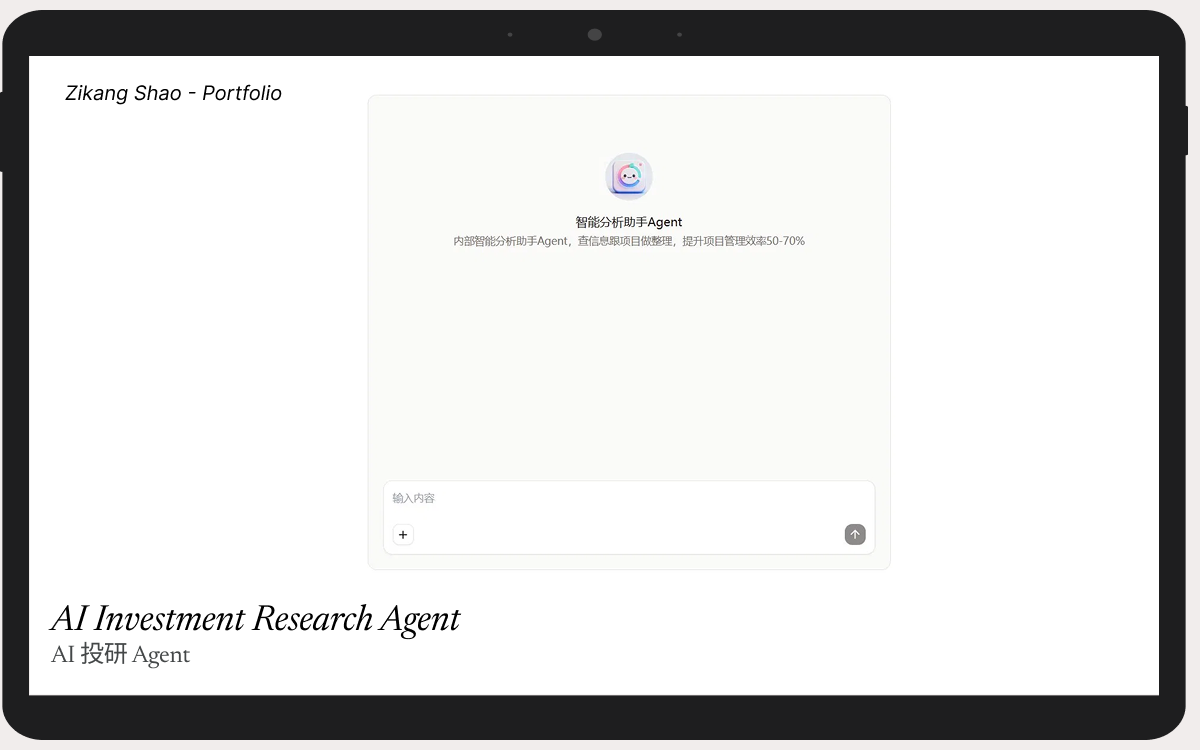
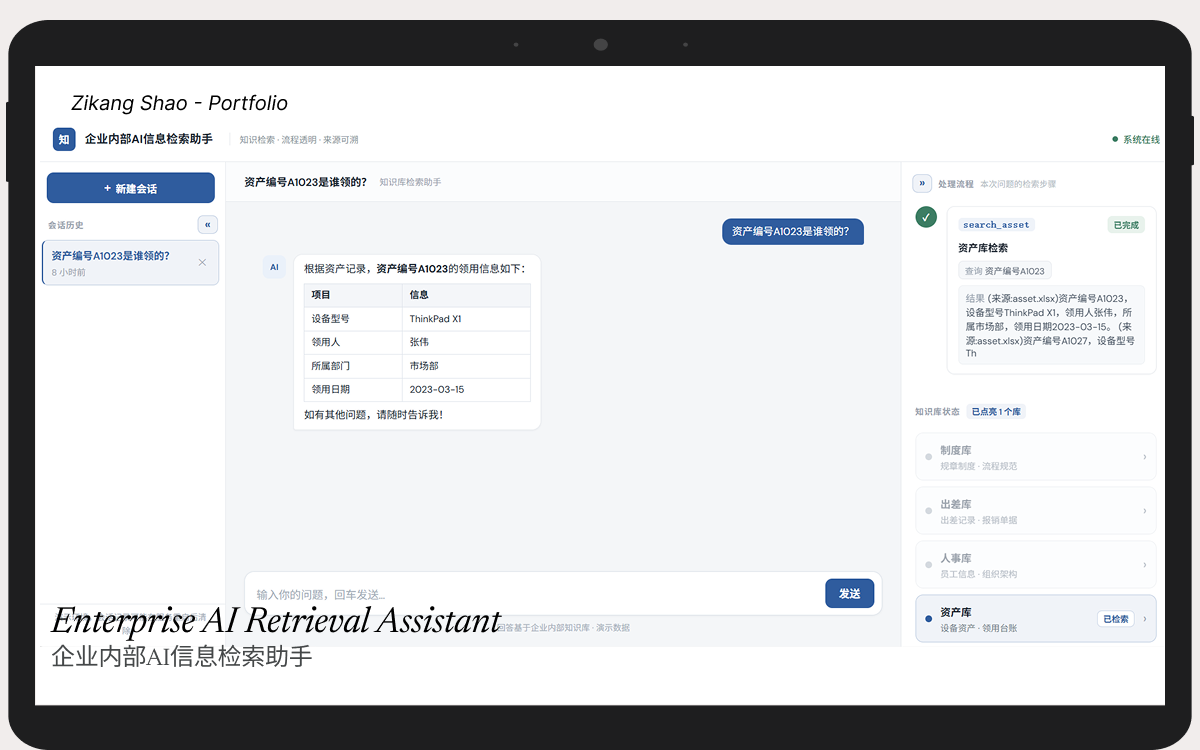
Replace investment agent showcase with Enterprise AI Retrieval Assistant

diff --git a/projects/ai-investment-research-agent.html b/projects/ai-investment-research-agent.html
@@ -139,7 +139,7 @@
 
 <!-- Primary CTA -->
 <div class="mb-16">
-<a href="https://code.coze.cn/web-sdk/7629357356765167662" target="_blank" rel="noopener" class="inline-flex items-center gap-2 px-6 py-3 bg-primary text-on-primary font-ui-label text-ui-label hover:bg-stone-700 transition-colors rounded" data-i18n="cs.agent.cta">Try Demo →</a>
+<a href="https://huggingface.co/spaces/Skenny111/enterprise-ai-search" target="_blank" rel="noopener" class="inline-flex items-center gap-2 px-6 py-3 bg-primary text-on-primary font-ui-label text-ui-label hover:bg-stone-700 transition-colors rounded" data-i18n="cs.agent.cta">Try Demo →</a>
 </div>
 
 <!-- About -->
@@ -163,7 +163,7 @@
 <section id="preview" class="mb-16 scroll-mt-24">
 <h2 class="font-h2 text-h2 text-primary mb-6 border-b border-outline-variant pb-3" data-i18n="cs.section.preview">Preview</h2>
 <div class="rounded-lg overflow-hidden border border-outline-variant bg-surface-container relative" style="aspect-ratio: 16/10;">
-<iframe src="https://code.coze.cn/web-sdk/7629357356765167662" class="absolute inset-0 w-full h-full" loading="lazy" sandbox="allow-scripts allow-same-origin allow-forms allow-popups" referrerpolicy="no-referrer" title="Demo embed"></iframe>
+<iframe src="https://skenny111-enterprise-ai-search.hf.space" class="absolute inset-0 w-full h-full" loading="lazy" sandbox="allow-scripts allow-same-origin allow-forms allow-popups" referrerpolicy="no-referrer" title="Demo embed"></iframe>
 </div>
 <p class="font-caption text-caption text-on-surface-variant mt-3" data-i18n="cs.notes.iframeFallback">If the embedded demo does not load, open the link in a new tab using the button above.</p>
 </section>
